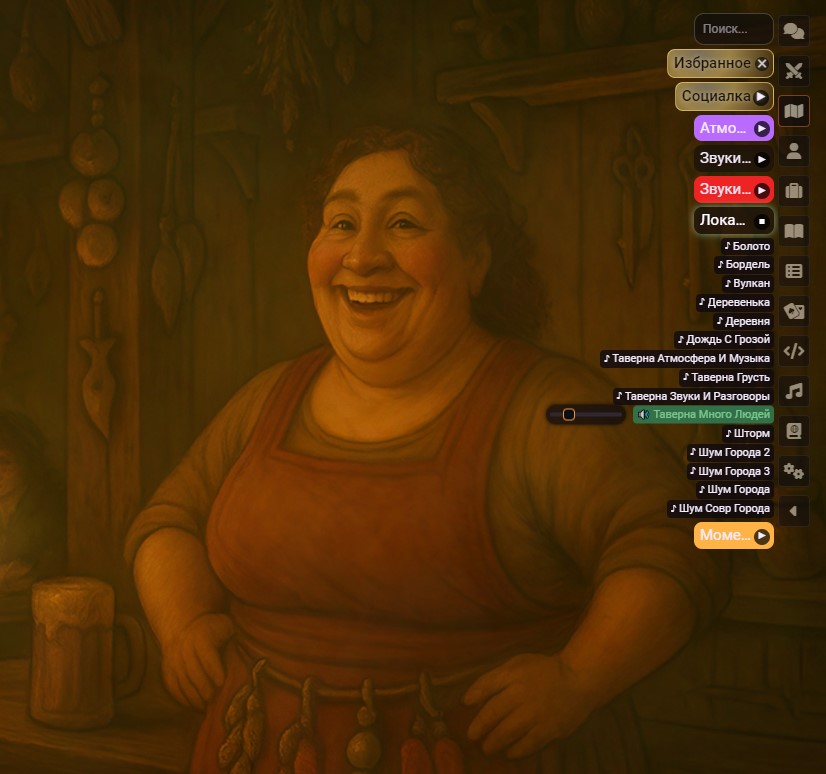
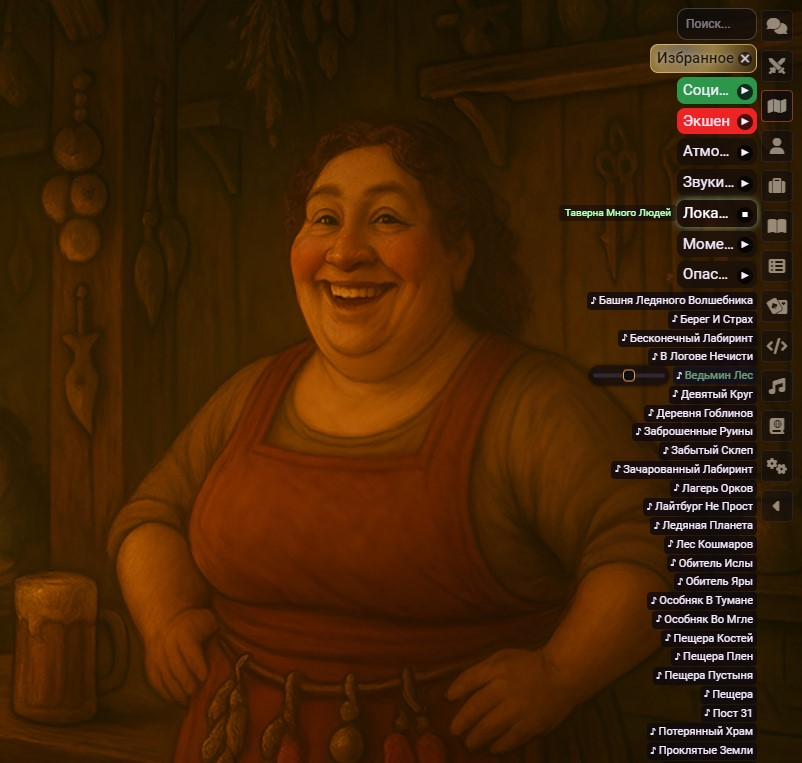
New Features
Playlist Filtering by Prefix,
Colored Playlist Grouping,
Full Deck Position Customization,
Improved Deck Behavior

diff --git a/scripts/settings.js b/scripts/settings.js
@@ -14,6 +14,36 @@ const DEFAULT_PALETTE_COLORS = [
 ];
 
 export function registerMusicDeckSettings() {
+   // Сворачивать остальные плейлисты при разворачивании одного
+  game.settings.register(MODULE_ID, "collapseOthers", {
+    name: game.i18n.localize(`${MODULE_ID}.settings.collapseOthers.name`),
+    hint: game.i18n.localize(`${MODULE_ID}.settings.collapseOthers.hint`),
+    scope: "client",
+    config: true,
+    type: Boolean,
+    default: false
+  });
+
+  // Обрезать названия избранных плейлистов
+  game.settings.register(MODULE_ID, "truncateFavoritePlaylists", {
+    name: game.i18n.localize(`${MODULE_ID}.settings.truncateFavoritePlaylists.name`),
+    hint: game.i18n.localize(`${MODULE_ID}.settings.truncateFavoritePlaylists.hint`),
+    scope: "client",
+    config: true,
+    type: Boolean,
+    default: false
+  });
+
+    // Поднимать покрашенные плейлисты выше обычных
+  game.settings.register(MODULE_ID, "sortColoredPlaylists", {
+    name: game.i18n.localize(`${MODULE_ID}.settings.sortColoredPlaylists.name`),
+    hint: game.i18n.localize(`${MODULE_ID}.settings.sortColoredPlaylists.hint`),
+    scope: "client",
+    config: true,
+    type: Boolean,
+    default: true
+  });
+  
   // Размер квадратной кнопки плейлиста
   game.settings.register(MODULE_ID, "playlistButtonSize", {
     name: game.i18n.localize(`${MODULE_ID}.settings.playlistButtonSize.name`),
@@ -37,6 +67,63 @@ export function registerMusicDeckSettings() {
     range: { min: 120, max: 600, step: 10 }
   });
 
+  // Отступ деки сверху (px)
+  game.settings.register(MODULE_ID, "deckTopOffset", {
+    name: game.i18n.localize(`${MODULE_ID}.settings.deckTopOffset.name`),
+    hint: game.i18n.localize(`${MODULE_ID}.settings.deckTopOffset.hint`),
+    scope: "client",
+    config: true,
+    type: Number,
+    default: 10,
+    range: { min: 0, max: 300, step: 1 },
+    requiresReload: true
+  });
+
+  // Отступ деки снизу (%)
+  game.settings.register(MODULE_ID, "deckBottomOffset", {
+    name: game.i18n.localize(`${MODULE_ID}.settings.deckBottomOffset.name`),
+    hint: game.i18n.localize(`${MODULE_ID}.settings.deckBottomOffset.hint`),
+    scope: "client",
+    config: true,
+    type: Number,
+    default: 8,
+    range: { min: 0, max: 50, step: 1 },
+    requiresReload: true
+  });
+
+  // Дополнительный отступ справа (px)
+  game.settings.register(MODULE_ID, "deckRightOffset", {
+    name: game.i18n.localize(`${MODULE_ID}.settings.deckRightOffset.name`),
+    hint: game.i18n.localize(`${MODULE_ID}.settings.deckRightOffset.hint`),
+    scope: "client",
+    config: true,
+    type: Number,
+    default: 0,
+    range: { min: 0, max: 300, step: 1 },
+    requiresReload: true
+  });
+
+    // Маркер для скрытия плейлистов (по началу имени)
+  game.settings.register(MODULE_ID, "hidePlaylistMarker", {
+    name: game.i18n.localize(`${MODULE_ID}.settings.hidePlaylistMarker.name`),
+    hint: game.i18n.localize(`${MODULE_ID}.settings.hidePlaylistMarker.hint`),
+    scope: "client",
+    config: true,
+    type: String,
+    default: "#",
+    requiresReload: true,
+  });
+
+  // Использовать цвет папки как фон
+  game.settings.register(MODULE_ID, "useFolderColor", {
+    name: game.i18n.localize(`${MODULE_ID}.settings.useFolderColor.name`),
+    hint: game.i18n.localize(`${MODULE_ID}.settings.useFolderColor.hint`),
+    scope: "client",
+    config: true,
+    type: Boolean,
+    default: true
+  });
+
   // Цвета в палитре деки
   const hasColorPicker = game.colorPicker?.ColorPickerField;
   const paletteFieldType = hasColorPicker
@@ -56,37 +143,7 @@ export function registerMusicDeckSettings() {
       type: paletteFieldType,
       default: color
     });
-  });
-
-  // Использовать цвет папки как фон
-  game.settings.register(MODULE_ID, "useFolderColor", {
-    name: game.i18n.localize(`${MODULE_ID}.settings.useFolderColor.name`),
-    hint: game.i18n.localize(`${MODULE_ID}.settings.useFolderColor.hint`),
-    scope: "client",
-    config: true,
-    type: Boolean,
-    default: true
-  });
-
-  // Сворачивать остальные плейлисты при разворачивании одного
-  game.settings.register(MODULE_ID, "collapseOthers", {
-    name: game.i18n.localize(`${MODULE_ID}.settings.collapseOthers.name`),
-    hint: game.i18n.localize(`${MODULE_ID}.settings.collapseOthers.hint`),
-    scope: "client",
-    config: true,
-    type: Boolean,
-    default: false
-  });
-
-  // Обрезать названия избранных плейлистов
-  game.settings.register(MODULE_ID, "truncateFavoritePlaylists", {
-    name: game.i18n.localize(`${MODULE_ID}.settings.truncateFavoritePlaylists.name`),
-    hint: game.i18n.localize(`${MODULE_ID}.settings.truncateFavoritePlaylists.hint`),
-    scope: "client",
-    config: true,
-    type: Boolean,
-    default: true
-  });
+  });  
 
   // Остальные настройки без UI можно оставить как есть:
   game.settings.register(MODULE_ID, "favoritePlaylists", {
@@ -125,10 +182,17 @@ export function registerMusicDeckSettings() {
 export function getMusicDeckSettings() {
   return {
     playlistButtonSize: game.settings.get(MODULE_ID, "playlistButtonSize"),
+    maxExpandWidth: game.settings.get(MODULE_ID, "maxExpandWidth"),
     useFolderColor: game.settings.get(MODULE_ID, "useFolderColor"),
     collapseOthers: game.settings.get(MODULE_ID, "collapseOthers"),
-    maxExpandWidth: game.settings.get(MODULE_ID, "maxExpandWidth"),
-    truncateFavoritePlaylists: game.settings.get(MODULE_ID, "truncateFavoritePlaylists")
+    truncateFavoritePlaylists: game.settings.get(MODULE_ID, "truncateFavoritePlaylists"),
+
+    deckTopOffset: game.settings.get(MODULE_ID, "deckTopOffset"),
+    deckBottomOffset: game.settings.get(MODULE_ID, "deckBottomOffset"),
+    deckRightOffset: game.settings.get(MODULE_ID, "deckRightOffset"),
+    sortColoredPlaylists: game.settings.get(MODULE_ID, "sortColoredPlaylists"),
+
+    hidePlaylistMarker: game.settings.get(MODULE_ID, "hidePlaylistMarker")
   };
 }
 

diff --git a/scripts/core.js b/scripts/core.js
@@ -296,6 +296,15 @@ class GinzzzuMusicDeck {
     // Максимальная ширина разворота
     this._container.style.setProperty("--gmusicdeck-max-width", `${maxExpandWidth}px`);
 
+    // Отступ сверху
+    this._container.style.setProperty("--ginzzzu-music-top-offset",`${this.settings.deckTopOffset ?? 10}px`);
+
+    // Отступ снизу
+    this._container.style.setProperty("--ginzzzu-music-bottom-offset",`${this.settings.deckBottomOffset ?? 8}%`);
+
+    // Отступ справа
+    this._container.style.setProperty("--ginzzzu-music-right-offset",`${this.settings.deckRightOffset ?? 0}px`);
+
     const inner = this._container.querySelector(".ginzzzu-music-deck-inner");
     if (!inner) return;
 
@@ -418,23 +427,45 @@ class GinzzzuMusicDeck {
     const favoriteIds = getFavoritePlaylists();
     const favoriteSet = new Set(favoriteIds);
 
+    const hideMarkerRaw = this.settings?.hidePlaylistMarker ?? "";
+    const hideMarker = hideMarkerRaw.trim();    
+
     const collator = new Intl.Collator(game.i18n.lang ?? "en", { sensitivity: "base" });
 
+    const sortColored = this.settings.sortColoredPlaylists;
     const playlists = allPlaylists
-      .filter((p) => p.visible)
+      .filter((p) => {
+        if (!p.visible) return false;
+
+        // Фильтрация по маркеру: если задан hideMarker и имя начинается с него — не показываем
+        if (hideMarker) {
+          const name = (p.name || "").trim();
+          if (name.startsWith(hideMarker)) return false;
+        }
+
+        return true;
+      })
       .slice()
-      .sort((a, b) => {
+            .sort((a, b) => {
         const aFav = favoriteSet.has(a.id);
         const bFav = favoriteSet.has(b.id);
 
-        // Сначала все избранные
+        // 1) избранные — всегда выше
         if (aFav && !bFav) return -1;
         if (!aFav && bFav) return 1;
 
-        // И избранные, и обычные внутри своей группы — по алфавиту
+        // 2) если включена опция — "покрашенные" выше обычных
+        if (sortColored) {
+          const aColored = !!playlistColors[a.id];
+          const bColored = !!playlistColors[b.id];
+
+          if (aColored && !bColored) return -1;
+          if (!aColored && bColored) return 1;
+        }
+
+        // 3) всё остальное — по алфавиту
         return collator.compare(a.name || "", b.name || "");
       });
-
 
       for (const playlist of playlists) {
       // Все треки плейлиста и первый играющий (если есть)

diff --git a/styles/module.css b/styles/module.css
@@ -3,10 +3,12 @@
 /* Внешний контейнер: широкий, прозрачный, только для позиционирования */
 .ginzzzu-music-deck {
   position: fixed;
-  top: 10px;
-  bottom: 8%;
-
-  right: var(--ginzzzu-music-sidebar-offset, 0px);
+  top: var(--ginzzzu-music-top-offset, 10px);
+  bottom: var(--ginzzzu-music-bottom-offset, 8%);
+  right: calc(
+    var(--ginzzzu-music-sidebar-offset, 0px)
+    + var(--ginzzzu-music-right-offset, 0px)
+  );
 
   /* ширина = максимум разворота, чтобы внутри ничего не резалось */
   width: var(--gmusicdeck-max-width, 260px);
@@ -40,18 +42,24 @@
 .ginzzzu-music-deck-inner {
   position: absolute;
   top: 0;
-  bottom: 0;
   left: 0;
   right: 0;
+  /* НЕ растягиваем на всю высоту контейнера */
+  bottom: auto;
+
+  /* Высота по содержимому, но не больше высоты контейнера */
+  max-height: 100%;
 
   display: flex;
   flex-direction: column;
   gap: 4px;
-  align-items: flex-end; /* 👈 все потомки справа */
+  align-items: flex-end;
 
   padding: 4px;
   box-sizing: border-box;
 
+  /* скролл появится только когда контент реально выше,
+     пока плейлистов мало — блок будет маленьким */
   overflow-y: auto;
   overflow-x: visible;
 

diff --git a/README.md b/README.md
@@ -114,15 +114,56 @@ Palette colors themselves can be configured in module settings.
 
 ---
 
+### 🟦 Colored Playlist Grouping
+If enabled in settings, playlists with a custom color assigned through the Deck’s palette are automatically:
+
+- placed **above normal playlists**
+- but still **below favorites**
+- sorted alphabetically inside their group
+
+This allows useful visual grouping of curated or thematic playlists.
+
+---
+
+### 🚫 Playlist Filtering by Prefix
+A new setting **“Hide playlists starting with…”** allows excluding certain playlists from the Music Deck.
+
+Examples:
+
+- `!Scene – Cave`
+- `!GM Only`
+- `#cutscene`
+
+If a playlist’s name begins with the specified prefix, it will be **hidden from the Deck**  
+(but still fully available in Foundry's native Playlist panel).
+
+Leave the setting empty to disable the filter.
+
+---
+
+### 🧭 Layout Customization
+The Music Deck panel now has three adjustable offsets:
+
+- **Top offset (px)**
+- **Bottom offset (%)**
+- **Right offset (px)**
+
+These help avoid conflicts with other UI modules or custom layouts, making the Deck fully adaptable to any table setup.
+
+---
+
 ### ⚙ Fully Configurable
 Module settings include:
 
-- playlist button size  
+- playlist button width  
 - maximum expand width on hover  
 - auto-collapse behavior  
-- full name display for favorites  
-- palette colors (with optional Color Picker UI)  
 - folder-color integration  
+- favorite playlist name truncation  
+- 9 configurable palette colors  
+- **colored playlist grouping (on/off)**  
+- **playlist filtering by prefix**  
+- **top / bottom / right deck offsets for full layout control**
 
 ---
 
@@ -268,14 +309,56 @@ Data/modules/ginzzzu-music-deck/
 
 ---
 
-### ⚙ Настройки модуля
+### 🟦 Группировка покрашенных плейлистов
+Если опция включена, плейлисты, которым назначен пользовательский цвет, автоматически:
 
-- ширина деки  
-- максимальная ширина раскрытия  
-- сворачивание остальных плейлистов  
+- поднимаются **выше обычных плейлистов**  
+- но остаются **ниже избранных**  
+- сортируются по алфавиту внутри своей группы  
+
+Это помогает визуально выделять тематические или важные плейлисты.
+
+---
+
+### 🚫 Фильтрация плейлистов по префиксу
+Новая настройка **«Скрывать плейлисты по префиксу»** позволяет исключать определённые плейлисты из музыкальной деки.
+
+Примеры:
+
+- `!Сцена – Пещера`
+- `!Только ГМ`
+- `#катсцена`
+
+Если имя плейлиста начинается с указанного символа или строки, он **не будет показываться** в деке  
+(но останется доступным в панели плейлистов Foundry).
+
+Чтобы отключить фильтр, оставьте поле пустым.
+
+---
+
+### 🧭 Настройки положения деки
+Теперь можно настраивать размещение музыкальной деки:
+
+- **Отступ сверху (px)**
+- **Отступ снизу (%)**
+- **Отступ справа (px)**
+
+Это позволяет избежать перекрытия других элементов интерфейса и удобнее организовать рабочее пространство.
+
+---
+
+### ⚙ Настройки модуля
+Включают:
+
+- ширину кнопок плейлистов  
+- максимальную ширину раскрытия при наведении  
+- автосворачивание других плейлистов  
 - использование цвета папки  
-- опции отображения избранных  
-- 8 конфигурируемых цветов палитры  
+- обрезание длинных названий избранных  
+- 9 настраиваемых цветов палитры  
+- **группировку покрашенных плейлистов**  
+- **фильтрацию по префиксу имени плейлиста**  
+- **отступ сверху / снизу / справа для точной настройки расположения деки**
 
 ---
 
